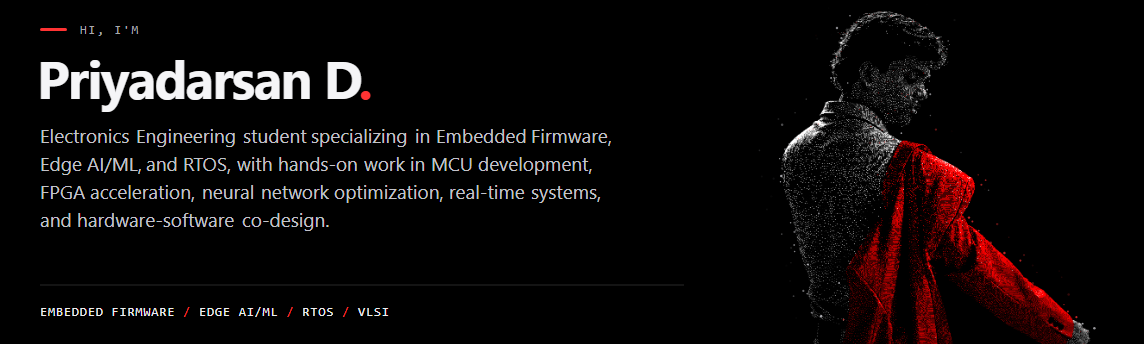
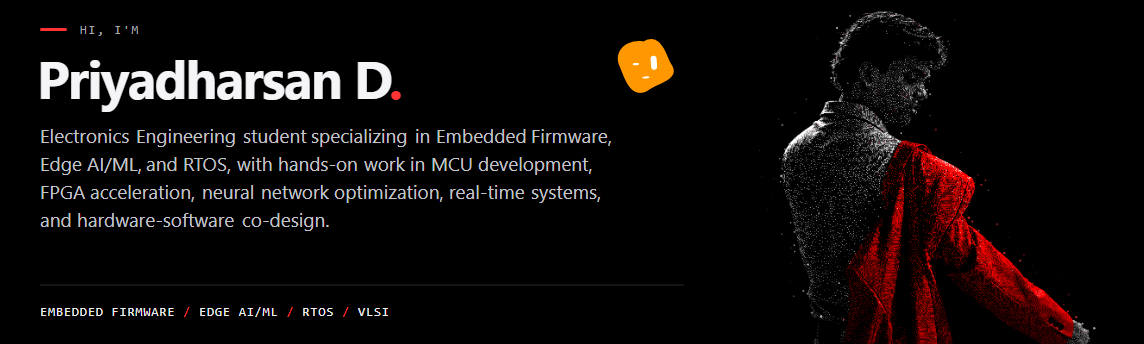
Correct profile name and add expressive morphing bot

Changed region(s): [[0.153, 0.1744, 0.3671, 0.2907], [0.5201, 0.1163, 0.6119, 0.2907]]

diff --git a/build_banner.py b/build_banner.py
@@ -6,6 +6,7 @@ from PIL import Image, ImageFont
 from random import Random
 
 ROOT = Path(__file__).resolve().parent
+NAME = 'Priyadharsan D'
 DESCRIPTION = (
     'Electronics Engineering student specializing in Embedded Firmware, '
     'Edge AI/ML, and RTOS, with hands-on work in MCU development, FPGA '
@@ -53,10 +54,66 @@ for row in range(125, source.height - 40, 27):
             f'animation-duration:{random.uniform(2.8, 4.8):.2f}s; '
             f'animation-delay:-{random.uniform(0, 5):.2f}s"/>'
         )
+bot_shapes = [
+    ('#ff493d', 'M0 -25 C14 -25 25 -14 25 0 C25 14 14 25 0 25 C-14 25 -25 14 -25 0 C-25 -14 -14 -25 0 -25 Z'),
+    ('#00bba8', 'M0 -25 C24 -25 25 -24 25 0 C25 24 24 25 0 25 C-24 25 -25 24 -25 0 C-25 -24 -24 -25 0 -25 Z'),
+    ('#ff2d9c', 'M0 -27 C6 -27 20 -4 25 13 C30 25 11 25 0 25 C-11 25 -30 25 -25 13 C-20 -4 -6 -27 0 -27 Z'),
+    ('#ff9800', 'M0 -24 C18 -33 22 -9 26 0 C36 17 12 18 0 26 C-16 32 -21 13 -25 0 C-32 -17 -15 -28 0 -24 Z'),
+    ('#9355ff', 'M0 -28 C6 -28 28 -6 28 0 C28 6 6 28 0 28 C-6 28 -28 6 -28 0 C-28 -6 -6 -28 0 -28 Z'),
+    ('#1485ff', 'M0 -24 C19 -24 27 -15 27 0 C27 15 19 24 0 24 C-19 24 -27 15 -27 0 C-27 -15 -19 -24 0 -24 Z'),
+]
+bot_frames = []
+for index, (color, shape) in enumerate(bot_shapes):
+    bot_frames.append(f'{index / 6 * 100:.3f}%, {(index + .72) / 6 * 100:.3f}% '
+                      f'{{ fill: {color}; d: path("{shape}"); }}')
+bot_frames.append(f'100% {{ fill: {bot_shapes[0][0]}; d: path("{bot_shapes[0][1]}"); }}')
+bot_styles = '''
+    .bot-motion { animation: bot-react 6s ease-in-out infinite; }
+    .bot-body { animation: bot-morph 6s ease-in-out infinite; }
+    .bot-eye { fill: #fff; transform-box: fill-box; transform-origin: center; }
+    .bot-eye-left { animation: eye-left 6s ease-in-out infinite; }
+    .bot-eye-right { animation: eye-right 6s ease-in-out infinite; }
+    .bot-mouth { fill: #fff; transform-box: fill-box; transform-origin: center;
+      animation: mouth-react 6s ease-in-out infinite; }
+    @keyframes bot-react {
+      0%,100% { transform: translateY(0) rotate(0deg); }
+      16.667% { transform: translateY(-4px) rotate(-9deg); }
+      33.333% { transform: translateY(0) rotate(7deg); }
+      50% { transform: translateY(-5px) rotate(-5deg); }
+      66.667% { transform: translateY(1px) rotate(8deg); }
+      83.333% { transform: translateY(-4px) rotate(-7deg); }
+    }
+    @keyframes eye-left {
+      0%,12%,100% { transform: scaleY(1); }
+      17%,29% { transform: scaleY(.35) rotate(-12deg); }
+      34%,46% { transform: scale(1.2); }
+      51%,62% { transform: scaleY(.15); }
+      67%,79% { transform: scaleY(.55) rotate(12deg); }
+      84%,96% { transform: scaleY(.45) rotate(-18deg); }
+    }
+    @keyframes eye-right {
+      0%,12%,100% { transform: scaleY(1); }
+      17%,29% { transform: scaleY(.35) rotate(12deg); }
+      34%,46% { transform: scale(1.2); }
+      51%,62% { transform: scaleY(1); }
+      67%,79% { transform: scaleY(.55) rotate(-12deg); }
+      84%,96% { transform: scaleY(.45) rotate(18deg); }
+    }
+    @keyframes mouth-react {
+      0%,12%,100% { transform: scale(.8,.5); }
+      17%,29% { transform: scale(1.6,.55); }
+      34%,46% { transform: scale(1,1.8); }
+      51%,62% { transform: scale(1.2,.5); }
+      67%,79% { transform: scale(.6,.4); }
+      84%,96% { transform: scale(1.5,1.1); }
+    }
+'''
 svg = f'''<svg xmlns="http://www.w3.org/2000/svg" width="1144" height="344" viewBox="0 0 1144 344" role="img" aria-labelledby="title description">
-  <title id="title">Priyadarsan D — Electronics Engineering</title>
+  <title id="title">{NAME} — Electronics Engineering</title>
   <desc id="description">{escape(DESCRIPTION)}</desc>
   <style>
+    {bot_styles.strip()}
+    @keyframes bot-morph {{ {''.join(bot_frames)} }}
     .word {{ font: 19px 'Segoe UI', sans-serif; fill: #c3c3ca;
       animation: enter 6s cubic-bezier(.16,1,.3,1) infinite both; }}
     @keyframes enter {{
@@ -73,6 +130,7 @@ svg = f'''<svg xmlns="http://www.w3.org/2000/svg" width="1144" height="344" view
     @media (prefers-reduced-motion: reduce) {{
       .word {{ animation: none; opacity: 1; }}
       .particle {{ animation: none; opacity: 0; }}
+      .bot-motion, .bot-body, .bot-eye, .bot-mouth {{ animation: none; }}
     }}
   </style>
   <rect width="1144" height="344" fill="#000"/>
@@ -80,7 +138,15 @@ svg = f'''<svg xmlns="http://www.w3.org/2000/svg" width="1144" height="344" view
   <g aria-hidden="true">{''.join(particles)}</g>
   <rect x="40" y="28" width="27" height="3" rx="1.5" fill="#ff3333"/>
   <text x="80" y="34" fill="#a8a8ad" font-family="Consolas, monospace" font-size="12" letter-spacing="2">HI, I'M</text>
-  <text x="37" y="99" fill="#f5f5f7" font-family="Segoe UI, sans-serif" font-size="53" font-weight="700" letter-spacing="-1.7">Priyadarsan D<tspan fill="#ff3333">.</tspan></text>
+  <text x="37" y="99" fill="#f5f5f7" font-family="Segoe UI, sans-serif" font-size="53" font-weight="700" letter-spacing="-1.7">{NAME}<tspan fill="#ff3333">.</tspan></text>
+  <g id="bot" transform="translate(645 70)" aria-hidden="true">
+    <g class="bot-motion">
+      <path class="bot-body" fill="{bot_shapes[0][0]}" d="{bot_shapes[0][1]}"/>
+      <rect class="bot-eye bot-eye-left" x="-12" y="-9" width="6" height="14" rx="3"/>
+      <rect class="bot-eye bot-eye-right" x="6" y="-9" width="6" height="14" rx="3"/>
+      <ellipse class="bot-mouth" cx="0" cy="12" rx="3" ry="2"/>
+    </g>
+  </g>
   {''.join(words)}
   <line x1="40" y1="285" x2="684" y2="285" stroke="#292929"/>
   <text x="40" y="316" fill="#eeeeef" font-family="Consolas, monospace" font-size="13" letter-spacing="0.8">EMBEDDED FIRMWARE <tspan fill="#ff3333">/</tspan> EDGE AI/ML <tspan fill="#ff3333">/</tspan> RTOS <tspan fill="#ff3333">/</tspan> VLSI</text>
@@ -89,7 +155,7 @@ svg = f'''<svg xmlns="http://www.w3.org/2000/svg" width="1144" height="344" view
 (ROOT / 'assets/intro.svg').write_text(svg, encoding='utf-8')
 (ROOT / 'README.md').write_text(
     '<p align="center">\n'
-    f'  <img src="assets/intro.svg" alt="{escape(DESCRIPTION, quote=True)}" width="1144">\n'
+    f'  <img src="assets/intro.svg" alt="{NAME}. {escape(DESCRIPTION, quote=True)}" width="1144">\n'
     '</p>\n', encoding='utf-8'
 )
 print(f'Built 1144 x 344 banner; {len(words)} words; {len(particles)} edge particles.')

diff --git a/README.md b/README.md
@@ -1,3 +1,3 @@
 <p align="center">
-  <img src="assets/intro.svg" alt="Electronics Engineering student specializing in Embedded Firmware, Edge AI/ML, and RTOS, with hands-on work in MCU development, FPGA acceleration, neural network optimization, real-time systems, and hardware-software co-design." width="1144">
+  <img src="assets/intro.svg" alt="Priyadharsan D. Electronics Engineering student specializing in Embedded Firmware, Edge AI/ML, and RTOS, with hands-on work in MCU development, FPGA acceleration, neural network optimization, real-time systems, and hardware-software co-design." width="1144">
 </p>
